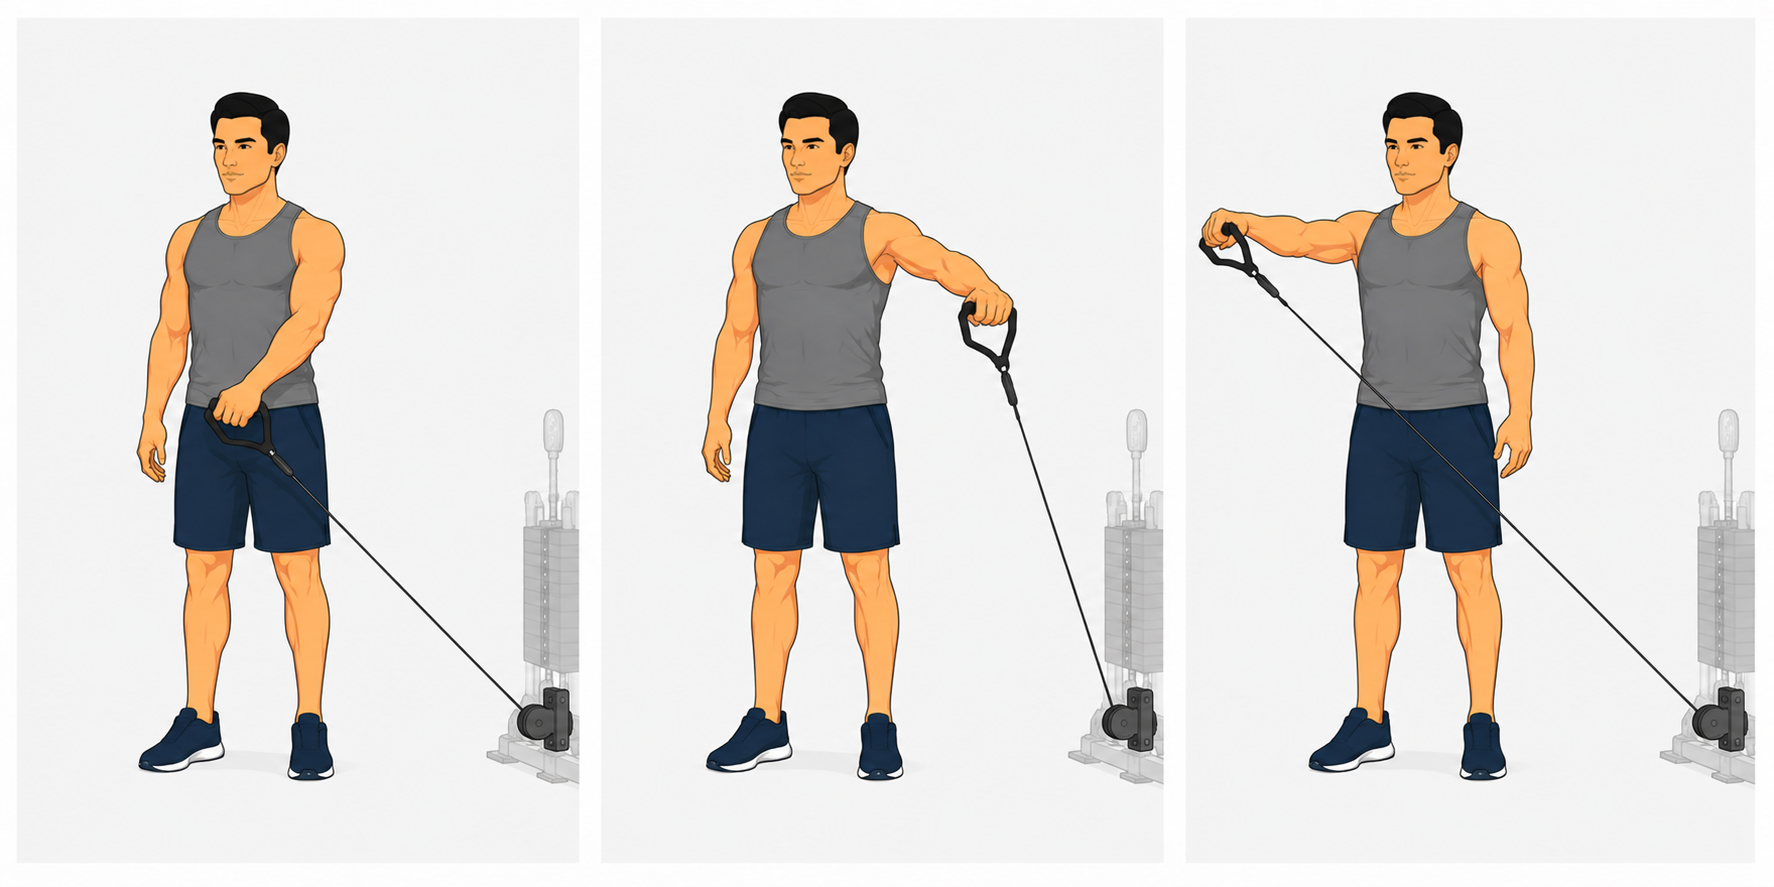
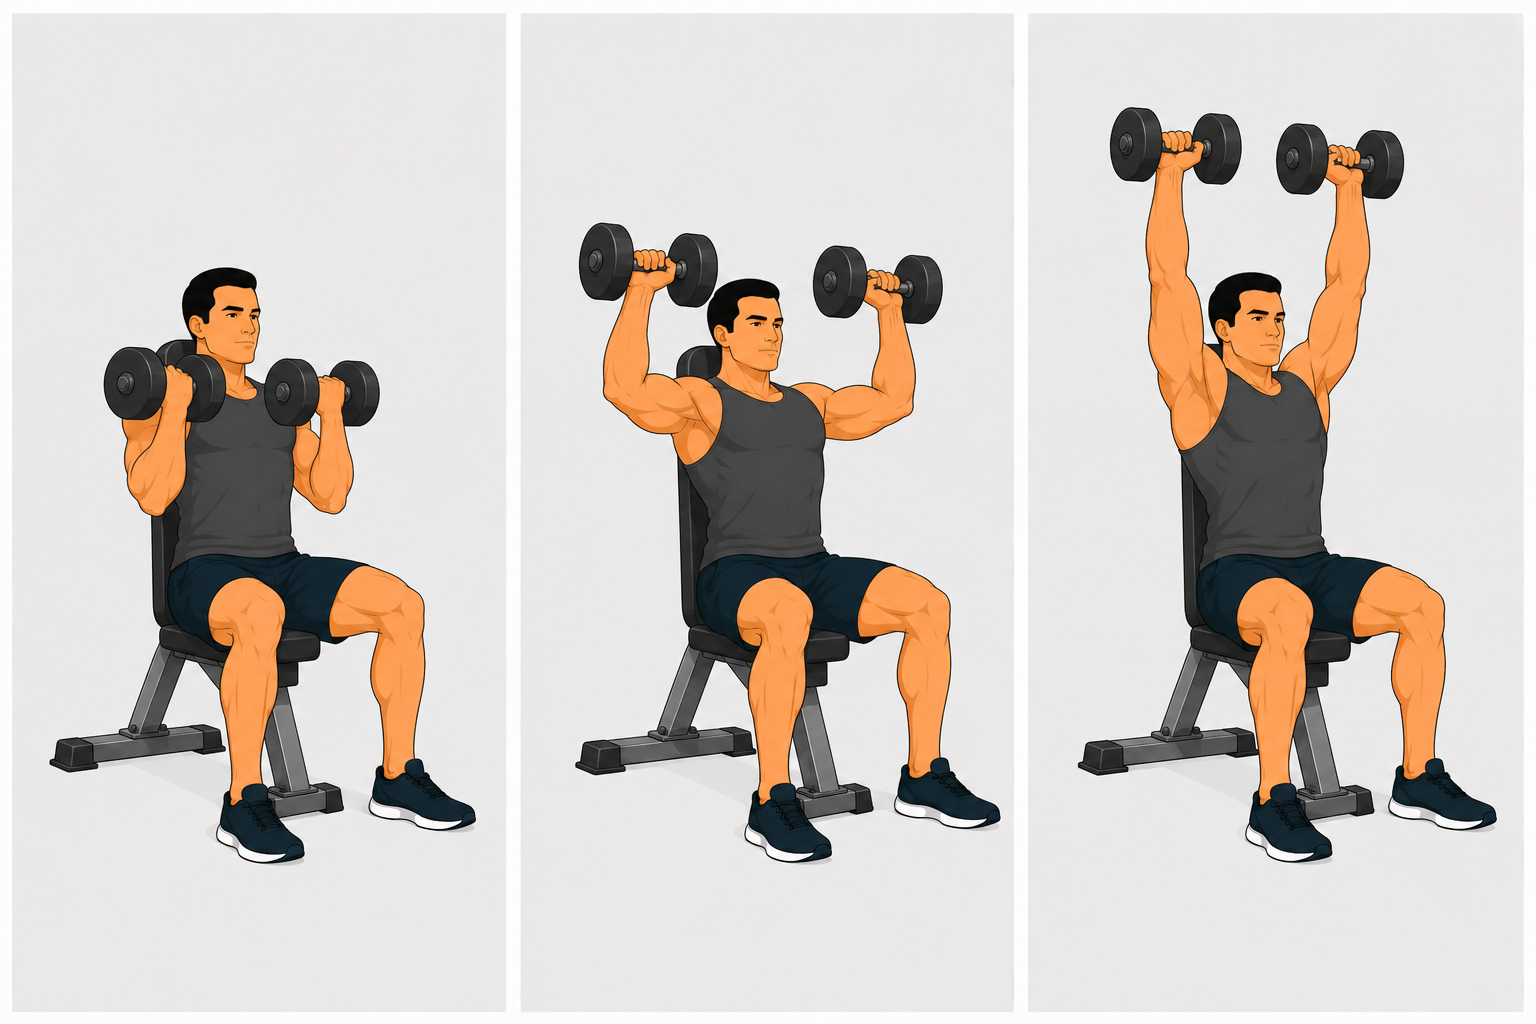
Fix wrong exercise images, add missing images, move program builder to Settings (v1.2.4)
Image fixes:
- Replace arnold-press.png (was a cable lateral raise) with correct
  seated dumbbell rotational press
- Replace barbell-skull-crusher.png (was a bench press) with correct
  skull crusher (bar to forehead, elbows up)
- Replace overhead-cable-tricep-extension.png with correct overhead
  cable extension (facing away from machine, arms extending overhead)

New images:
- cable-rope-hammer-curl.png — cable rope hammer curl now has an image
- incline-bench-dumbbell-rear-delt-fly.png — triggers rename of
  "Dumbbell reverse fly standing" → "Incline bench dumbbell rear delt fly"
  in pull_m and upper_m day templates; standing variant stays in sub pool

UI:
- Move "Build a custom program" button from home screen to Settings,
  placed directly below the split-type selector; home screen now stays
  focused on starting a workout

Changed region(s): [[0.375, 0.0913, 0.6562, 0.8828], [0.6562, 0.0913, 1.0, 0.8828], [0.0312, 0.0913, 0.3438, 0.8828]]

diff --git a/index.html b/index.html
@@ -348,7 +348,6 @@ textarea{resize:vertical;min-height:100px}
     <div style="font-size:13px;color:var(--txt2);margin-bottom:12px" id="h-sg"></div>
     <button class="bp" id="h-repeat-btn" style="width:100%;justify-content:center;margin-bottom:14px;display:none" onclick="repeatLastWorkout()"></button>
     <div id="dbtn-list"></div>
-    <button class="bg" id="h-prog-btn" style="width:100%;justify-content:center;margin-top:4px" onclick="openProgramBuilder()"></button>
     <div id="h-hist" style="margin-top:16px;display:none">
       <h2>Recent sessions</h2>
       <div id="h-hlist"></div>
@@ -486,7 +485,8 @@ textarea{resize:vertical;min-height:100px}
     <div class="g2" style="margin-bottom:6px"><button class="opt-btn" id="sstyle-straight" onclick="setSettingSetStyle('straight')">Straight sets</button><button class="opt-btn" id="sstyle-pyramid" onclick="setSettingSetStyle('pyramid')">Pyramid sets</button></div>
     <div style="font-size:12px;color:var(--txt2);margin-bottom:12px" id="sstyle-desc"></div>
     <label>Split type</label>
-    <div id="set-split-opts" style="display:flex;flex-direction:column;gap:8px;margin-bottom:12px"></div>
+    <div id="set-split-opts" style="display:flex;flex-direction:column;gap:8px;margin-bottom:8px"></div>
+    <button class="bg" id="set-prog-btn" style="width:100%;justify-content:center;margin-bottom:12px" onclick="openProgramBuilder()"></button>
     <div class="toggle-row">
       <div><div style="font-size:14px;font-weight:500;color:var(--txt)">Warm-up sets</div></div>
       <button class="toggle" id="stog-wu" onclick="setSettingWU()"></button>
@@ -728,7 +728,7 @@ const EX={
     {name:'Reverse grip pulldown',mg:'back',yt:'reverse+grip+lat+pulldown+form',wu:false,baseW:50},
     {name:'Cable row',mg:'back',yt:'seated+cable+row+form',wu:false,baseW:50},
     {name:'Cable face pull',mg:'rear_delts',yt:'cable+face+pull+rear+delt+form',wu:true,baseW:40},
-    {name:'Dumbbell reverse fly standing',mg:'rear_delts',note:'each hand',yt:'dumbbell+reverse+fly+rear+delt+form',wu:false,baseW:8},
+    {name:'Incline bench dumbbell rear delt fly',mg:'rear_delts',note:'each hand',yt:'incline+dumbbell+rear+delt+fly+form',wu:false,baseW:8},
     {name:'Dumbbell bicep curl',mg:'biceps',note:'each hand',yt:'dumbbell+bicep+curl+form',wu:true,baseW:10},
     {name:'Hammer curls',mg:'biceps',note:'each hand',yt:'hammer+curl+form+tutorial',wu:false,baseW:10}
   ],
@@ -746,7 +746,7 @@ const EX={
     {name:'Lat pulldown',mg:'back',yt:'lat+pulldown+proper+form',wu:true,baseW:50},
     {name:'Seated dumbbell shoulder press',mg:'shoulders',yt:'seated+dumbbell+shoulder+press+form',wu:true,baseW:20},
     {name:'Cable face pull',mg:'rear_delts',yt:'cable+face+pull+rear+delt+form',wu:true,baseW:40},
-    {name:'Dumbbell reverse fly standing',mg:'rear_delts',note:'each hand',yt:'dumbbell+reverse+fly+rear+delt+form',wu:false,baseW:8},
+    {name:'Incline bench dumbbell rear delt fly',mg:'rear_delts',note:'each hand',yt:'incline+dumbbell+rear+delt+fly+form',wu:false,baseW:8},
     {name:'Triceps pushdown',mg:'triceps',yt:'cable+triceps+pushdown+form',wu:true,baseW:50},
     {name:'Dumbbell bicep curl',mg:'biceps',note:'each hand',yt:'dumbbell+bicep+curl+form',wu:true,baseW:10}
   ],
@@ -2224,8 +2224,6 @@ function refreshHome(){
     const rbtn=gid('h-repeat-btn');rbtn.style.display='flex';rbtn.innerHTML='<i class="ti ti-rotate-clockwise" aria-hidden="true"></i> Repeat last workout — '+last;
   }
   else{gid('h-gr').textContent='Good '+tod+', '+CFG.name+'! Ready to train?';gid('h-sg').textContent='Pick your first session below';gid('h-repeat-btn').style.display='none';}
-  const pbtn=gid('h-prog-btn');
-  pbtn.innerHTML=CFG.customProgram?'<i class="ti ti-pencil" aria-hidden="true"></i> Edit "'+CFG.customProgram.name+'"':'<i class="ti ti-layout-grid-add" aria-hidden="true"></i> Build a custom program';
   const con=gid('dbtn-list');con.innerHTML='';
   getSplitDays().forEach(k=>{
     const isSug=k===sug;const last=ST.history.filter(h=>h.day===k).slice(-1)[0];
@@ -2259,6 +2257,8 @@ function openSettings(){
   gid('stog-rs').classList.toggle('on',CFG.restSound);
   gid('stog-dm').classList.toggle('on',CFG.darkMode);
   renderSplitOpts('set-split-opts',CFG.split,(id)=>{CFG.split=id;});
+  const spbtn=gid('set-prog-btn');
+  spbtn.innerHTML=CFG.customProgram?'<i class="ti ti-pencil" aria-hidden="true"></i> Edit "'+CFG.customProgram.name+'"':'<i class="ti ti-layout-grid-add" aria-hidden="true"></i> Build a custom program';
   renderMWSettings();
   ss('settings');
 }

diff --git a/CHANGELOG.md b/CHANGELOG.md
@@ -4,6 +4,28 @@ All notable changes to GainPath will be documented in this file.
 
 The format is based on [Keep a Changelog](https://keepachangelog.com/en/1.1.0/).
 
+## [1.2.4] - 2026-06-26
+
+### Changed
+- **"Build a custom program" button moved from the home screen to Settings**,
+  placed directly below the split-type selector where it belongs. The home
+  screen now stays focused on starting a workout.
+
+### Added
+- **Cable rope hammer curl** added to the substitution pool with image.
+- **Incline bench dumbbell rear delt fly** image added; the exercise is now
+  renamed from "Dumbbell reverse fly standing" in the Pull and Upper day
+  templates (pull_m, upper_m) — the standing bent-over variant remains in
+  the substitution pool under its own name.
+
+### Fixed
+- Replaced wrong **Arnold press** image (was showing a cable lateral raise)
+  with the correct seated dumbbell rotational press.
+- Replaced wrong **Barbell skull crusher** image (was showing a flat bench
+  press) with the correct skull crusher (bar to forehead, elbows up).
+- Replaced wrong **Overhead cable tricep extension** image with the correct
+  overhead extension (facing away from machine, arms extending overhead).
+
 ## [1.2.3] - 2026-06-26
 
 ### Added